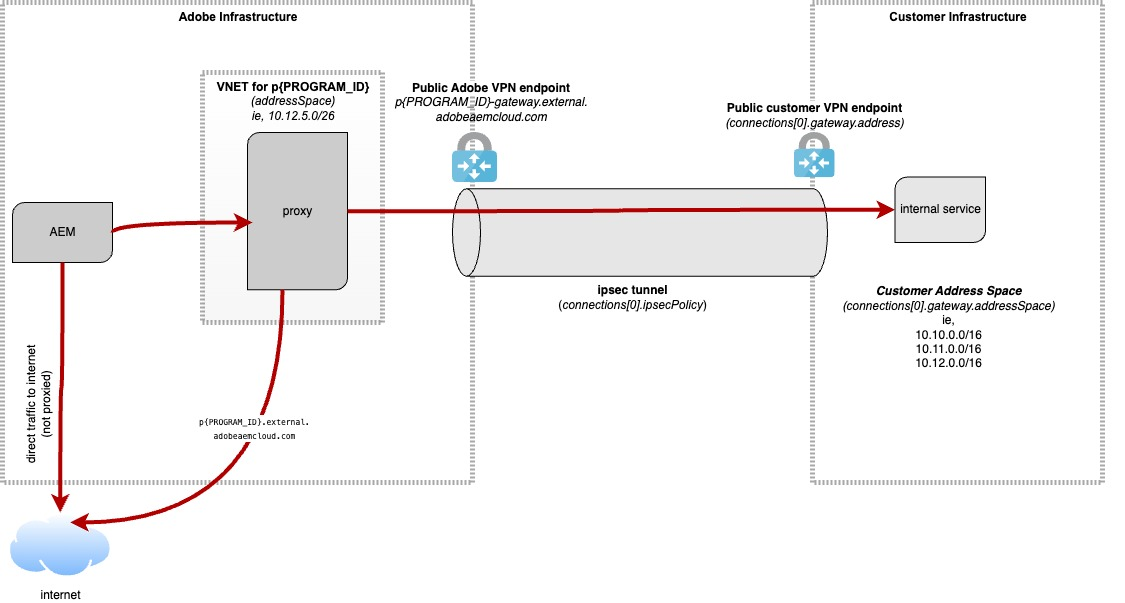
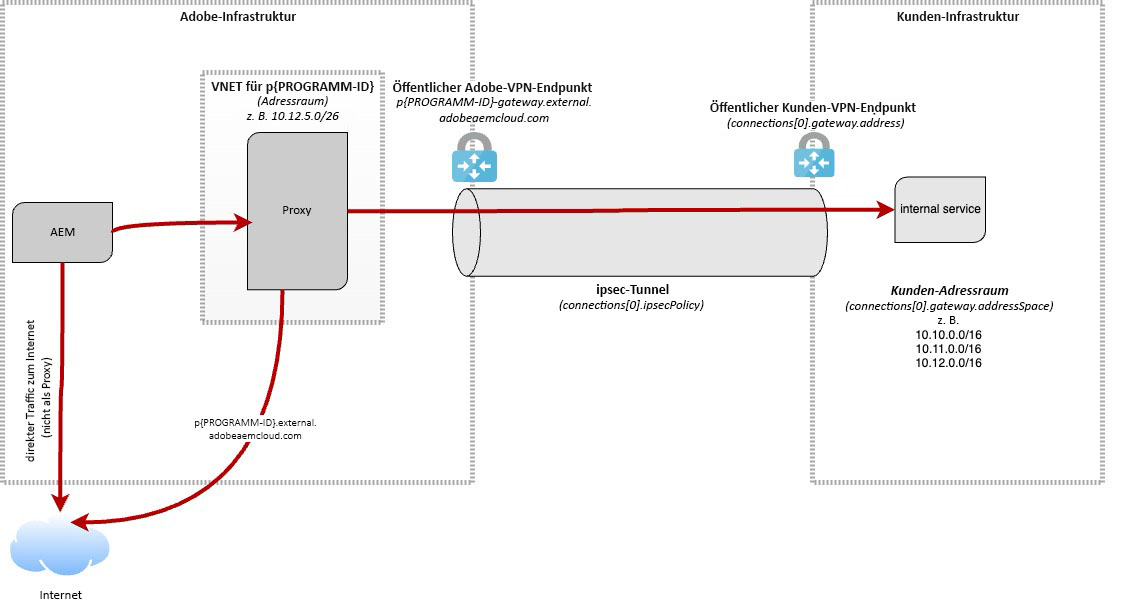
Updated by task 'AUTO_HANDOFF_PRIORITY_1731069569426'  Changes for core/source commit https://git.corp.adobe.com/AdobeDocs/experience-manager-cloud-service.en/commit/54368872e8e7d5f177ca75e6280786b33562cf8f

diff --git a/help/implementing/cloud-manager/release-notes/current.md b/help/implementing/cloud-manager/release-notes/current.md
@@ -1,19 +1,19 @@
 ---
 title: Versionshinweise für Cloud Manager 2024.11.0 in Adobe Experience Manager as a Cloud Service
-description: Erfahren Sie mehr über die Version von Cloud Manager 2024.11.0 in AEM as a Cloud Service.
+description: Erfahren Sie mehr über die Version Cloud Manager 2024.11.0 in AEM as a Cloud Service.
 feature: Release Information
 role: Admin
 exl-id: 24d9fc6f-462d-417b-a728-c18157b23bbe
 source-git-commit: 87293526ca9c10a142bc1d1d3a35562b171da385
-workflow-type: tm+mt
+workflow-type: ht
 source-wordcount: '784'
-ht-degree: 30%
+ht-degree: 100%
 
 ---
 
 # Versionshinweise für Cloud Manager 2024.11.0 in Adobe Experience Manager as a Cloud Service {#release-notes}
 
-Erfahren Sie mehr über die Version von Cloud Manager 2024.11.0 in AEM (Adobe Experience Manager) as a Cloud Service.
+Erfahren Sie mehr über die Version Cloud Manager 2024.11.0 in AEM (Adobe Experience Manager) as a Cloud Service.
 
 >[!NOTE]
 >
@@ -21,31 +21,31 @@ Erfahren Sie mehr über die Version von Cloud Manager 2024.11.0 in AEM (Adobe Ex
 
 ## Veröffentlichungsdaten {#release-date}
 
-Die Version 2024.11.0 von Cloud Manager in AEM as a Cloud Service wurde am 7. November 2024 veröffentlicht.
+Die Version 2024.11.0 von Cloud Manager in AEM as a Cloud Service wurde am 7. November 2024 veröffentlicht.
 
-Die nächste geplante Version ist der 5. Dezember 2024.
+Die Veröffentlichung der nächsten Version ist für den 5. Dezember 2024 geplant.
 
 ## Neue Funktionen {#what-is-new}
 
-* Erleben Sie die neueste Innovation in Edge Delivery Services mit AEM Cloud Service-now, die Sie in Ihrem Sandbox-Programm untersuchen können. [Mehr erfahren](/help/implementing/cloud-manager/getting-access-to-aem-in-cloud/introduction-sandbox-programs.md#auto-creation) <!-- (CMGR-62319) -->
-* Die Seite &quot;Domäneneinstellungen&quot;in AEM Cloud Manager enthält jetzt eine Suchfunktion, mit der Sie Domänen nach Namen schnell finden können. Sie können Suchbegriffe in das Suchfeld eingeben, um übereinstimmende Domänen zu filtern und anzuzeigen, wodurch die effiziente Verwaltung mehrerer Domänen erleichtert wird. Darüber hinaus bietet die Seite Statusfilter wie **Verified** und **Not Verified**, um die Suchergebnisse weiter einzugrenzen. <!-- (CMGR-62615) -->
+* Erleben Sie die neueste Innovation in Edge Delivery Services mit AEM Cloud Service, die Sie jetzt in Ihrem Sandbox-Programm erkunden können. [Weitere Informationen](/help/implementing/cloud-manager/getting-access-to-aem-in-cloud/introduction-sandbox-programs.md#auto-creation) <!-- (CMGR-62319) -->
+* Die Seite „Domain-Einstellungen“ in AEM Cloud Manager enthält jetzt eine Suchfunktion, mit der Sie Domains schnell nach Namen finden können. Sie können Suchbegriffe in das Suchfeld eingeben, um übereinstimmende Domains zu filtern und anzuzeigen, wodurch die effiziente Verwaltung mehrerer Domains erleichtert wird. Darüber hinaus bietet die Seite Statusfilter wie **Verifiziert** und **Nicht verifiziert**, um die Suchergebnisse weiter einzugrenzen. <!-- (CMGR-62615) -->
 
-![Suchfeld in den Domäneneinstellungen](/help/implementing/cloud-manager/assets/domain-settings-search.png)
+![Suchfeld in den Domain-Einstellungen](/help/implementing/cloud-manager/assets/domain-settings-search.png)
 
 ## Early-Adopter-Programm {#early-adoption}
 
 Nehmen Sie am Early-Adopter-Programm von Cloud Manager teil und nutzen Sie die Möglichkeit, zukünftige Funktionen zu testen.
 
-### AEM {#aem-home}
+### AEM Home {#aem-home}
 
-AEM Home bietet einen zentralen Ausgangspunkt für die Verwaltung von Inhalten, Assets und Sites in Adobe Experience Manager. AEM Home wurde für ein personalisiertes Erlebnis konzipiert und ermöglicht Ihnen die nahtlose Navigation im AEM Ökosystem entsprechend Ihren Rollen und Zielen. Als Leitfaden bietet er wichtige Einblicke und empfohlene Maßnahmen, mit denen Sie Ihre Ziele effizient erreichen können. Mit einem klaren, personalgesteuerten Layout gewährleistet AEM Home schnellen Zugriff auf wichtige Tools und ermöglicht so ein optimiertes und effektives Erlebnis für alle AEM Funktionen.
+AEM Home bietet einen zentralen Ausgangspunkt für das Verwalten von Inhalten, Assets und Sites in Adobe Experience Manager. AEM Home wurde für ein personalisiertes Erlebnis konzipiert und ermöglicht Ihnen die nahtlose Navigation im AEM-Ökosystem entsprechend Ihren Rollen und Zielen. Es dient als Leitfaden und bietet wichtige Einblicke und empfohlene Maßnahmen, mit denen Sie Ihre Ziele effizient erreichen können. Mit einem klaren, rollenbasierten Layout gewährleistet AEM Home schnellen Zugriff auf wichtige Tools und ermöglicht so ein optimiertes und effektives Erlebnis für alle AEM-Funktionen.
 
-AEM Home steht frühen Anwendern zur Verfügung und bietet ein optimiertes Erlebnis, das auf die Verbesserung von Workflows, die Priorisierung von Zielen und die Bereitstellung von Ergebnissen ausgerichtet ist. Durch die Anmeldung können Sie die Entwicklung AEM Home beeinflussen, indem Sie Feedback geben, das die Zukunft mitbestimmt und den Wert für die gesamte AEM Community erhöht.
+AEM Home steht Early-Adoptern zur Verfügung und bietet ein optimiertes Erlebnis, das auf die Verbesserung von Workflows, die Priorisierung von Zielen und die Bereitstellung von Ergebnissen ausgerichtet ist. Wenn Sie sich dafür entscheiden, können Sie die Entwicklung von AEM Home beeinflussen, indem Sie Feedback geben, um seine Zukunft mitzubestimmen und seinen Wert für die gesamte AEM-Community zu erhöhen.
 
-Wenn Sie diese neue Funktion testen und Ihr Feedback teilen möchten, senden Sie eine E-Mail von Ihrer mit Ihrer Adobe ID verknüpften E-Mail-Adresse an [Grp-AemHome@adobe.com](mailto:Grp-AemHome@adobe.com). Stellen Sie sicher, dass Sie die folgenden Informationen angeben:
+Wenn Sie diese neue Funktion testen und uns Ihr Feedback mitteilen möchten, senden Sie über die mit Ihrer Adobe ID verknüpfte E-Mail-Adresse eine E-Mail an [Grp-AemHome@adobe.com](mailto:Grp-AemHome@adobe.com). Stellen Sie sicher, dass Sie die folgenden Informationen angeben:
 
-* Die Rolle, die Ihrem Profil am besten entspricht: Inhaltsautor, Entwickler, Business Owner, Administrator oder Sonstige (geben Sie eine Beschreibung an).
-* Ihre primäre AEM für den Zugriff: AEM Sites, AEM Assets, AEM Forms, Cloud Manager oder Sonstige (Beschreibung angeben).
+* Die Rolle, die Ihrem Profil am besten entspricht: Inhaltsautor, Entwickler, Geschäftsinhaber, Admin oder Sonstige (geben Sie eine Beschreibung an).
+* Ihre primäre Oberfläche für den Zugriff auf AEM: AEM Sites, AEM Assets, AEM Forms, Cloud Manager oder Sonstige (Beschreibung angeben).
 
 ### Bringen Sie Ihren eigenen Git mit – jetzt mit Unterstützung für GitLab und Bitbucket {#gitlab-bitbucket}
 
@@ -61,16 +61,16 @@ Siehe [Hinzufügen von externen Repositorys in Cloud Manager](/help/implementing
 >
 >Derzeit sind vorkonfigurierte Code-Qualitätsprüfungen für Pull-Anfragen ausschließlich für von GitHub gehostete Repositorys verfügbar. Es ist jedoch ein Update in Arbeit, um diese Funktionen auf andere Git-Anbieter zu erweitern.
 
-Wenn Sie diese neue Funktion testen und uns Ihr Feedback mitteilen möchten, senden Sie über die mit Ihrer Adobe ID verknüpfte E-Mail-Adresse eine E-Mail an [Grp-CloudManager_BYOG@adobe.com](mailto:Grp-CloudManager_BYOG@adobe.com). Stellen Sie sicher, dass Sie angeben, welche Git-Plattform Sie verwenden möchten und ob Sie sich in einer privaten/öffentlichen oder Enterprise-Repository-Struktur befinden. —>
+Wenn Sie diese neue Funktion testen und uns Ihr Feedback mitteilen möchten, senden Sie über die mit Ihrer Adobe ID verknüpfte E-Mail-Adresse eine E-Mail an [Grp-CloudManager_BYOG@adobe.com](mailto:Grp-CloudManager_BYOG@adobe.com). Geben Sie unbedingt an, welche Git-Plattform Sie verwenden möchten und ob Sie sich in einer privaten/öffentlichen oder einer Unternehmens-Repository-Struktur befinden. -->
 
 
 ## Fehlerbehebungen
 
 * In einem kürzlich veröffentlichten Update wurde ein Problem in SonarQube behoben, bei dem hartcodierte Kennwörter in bestimmten Fällen nicht erkannt wurden. Die Fehlerbehebung enthält jetzt eine erweiterte Musterprüfung und passt sich an die standardmäßigen Erkennungsstandards in SonarQube an. <!-- CMGR-62682 -->
 * Wenn Sie versuchen, ein SSL-Zertifikat in Cloud Manager zu aktualisieren, wird nach dem Klicken auf **[!UICONTROL Aktualisieren]** im Dialogfeld **[!UICONTROL Anzeigen und Aktualisieren des SSL-Zertifikats]** ein unbekannter Fehler angezeigt. <!-- CMGR-62848 -->
-* In Cloud Manager schlug die Aktualisierung des SSL-Zertifikats mit dem Fehler &quot;Das neue Zertifikat stimmt nicht mit den vorhandenen Domänen überein&quot;fehl, selbst wenn die Domänen identisch waren, aber Unterschiede in der Schreibweise aufwiesen (Groß- oder Kleinschreibung). In der Aktualisierung wird bei Domänen nun nicht mehr zwischen Groß- und Kleinschreibung unterschieden, was an RFC-Standards ausgerichtet ist. <!-- CMGR-62844 -->
-* In Cloud Manager blieben IP-Zulassungslisten-Bindungen in einem laufenden Zustand, da Fremdschlüssellinks zu Domänenkonfigurationen fehlten. Durch die Korrektur wird nun sichergestellt, dass IP-Zulassungslisten-Bindungen korrekt mit den zugehörigen Domänenkonfigurationen verknüpft werden. <!-- CMGR-62838 -->
-* Cloud Manager validiert den OCSP-Status (Online Certificate Status Protocol) eines SSL-Zertifikats. Adobe empfiehlt, die Integrität Ihres Zertifikats auch lokal mithilfe eines Tools wie `openssl verify -untrusted intermediate.pem certificate.pem` zu überprüfen, bevor Sie es über Cloud Manager installieren. Weitere Informationen finden Sie in der Dokumentation zu den [SSL-Zertifikatanforderungen](https://experienceleague.adobe.com/en/docs/experience-manager-cloud-service/content/implementing/using-cloud-manager/manage-ssl-certificates/introduction-to-ssl-certificates#requirements). <!-- CMGR-62341  -->
+* In Cloud Manager schlug die Aktualisierung des SSL-Zertifikats fehl mit dem Fehler „Das neue Zertifikat stimmt nicht mit den vorhandenen Domänen überein“, selbst wenn die Domains identisch waren, aber Unterschiede bezüglich Groß- oder Kleinschreibung aufwiesen. Mit der Aktualisierung wird bei Domains nun entsprechend den RFC-Standards nicht mehr zwischen Groß- und Kleinschreibung unterschieden. <!-- CMGR-62844 -->
+* In Cloud Manager blieben Bindungen von IP-Zulassungslisten in einem laufenden Zustand, da wichtige fremde Links zu Domain-Konfigurationen fehlten. Durch die Korrektur wird nun sichergestellt, dass IP-Zulassungslisten-Bindungen korrekt mit den zugehörigen Domain-Konfigurationen verknüpft sind. <!-- CMGR-62838 -->
+* Cloud Manager validiert den OCSP-Status (Online Certificate Status Protocol) eines SSL-Zertifikats. Adobe empfiehlt, die Integrität Ihres Zertifikats außerdem lokal mit einem Tool wie `openssl verify -untrusted intermediate.pem certificate.pem` zu überprüfen, bevor Sie versuchen, es mit Cloud Manager zu installieren. Weitere Informationen finden Sie in der [Dokumentation zu SSL-Zertifikat-Anforderungen](https://experienceleague.adobe.com/de/docs/experience-manager-cloud-service/content/implementing/using-cloud-manager/manage-ssl-certificates/introduction-to-ssl-certificates#requirements). <!-- CMGR-62341  -->
 
 
 

diff --git a/help/security/configuring-advanced-networking.md b/help/security/configuring-advanced-networking.md
@@ -5,9 +5,9 @@ exl-id: 968cb7be-4ed5-47e5-8586-440710e4aaa9
 feature: Security
 role: Admin
 source-git-commit: 2a7d46e91bbd6ca96bd8b7fd5d4d84cf69bdee36
-workflow-type: tm+mt
+workflow-type: ht
 source-wordcount: '5524'
-ht-degree: 99%
+ht-degree: 100%
 
 ---
 
@@ -398,7 +398,7 @@ Um zu überprüfen, ob der Traffic tatsächlich über die erwartete dedizierte I
 
 ## Virtuelles privates Netzwerk (VPN) {#vpn}
 
-Ein VPN ermöglicht die Verbindung zu einer On-Premise-Infrastruktur oder einem Rechenzentrum von der Autoren-, Veröffentlichungs- oder Vorschauinstanz aus. Dies kann beispielsweise nützlich sein, um den Zugriff auf eine Datenbank zu sichern. Es ermöglicht auch die Verbindung zu SaaS-Anbietern, z. B. einem CRM-Anbieter, der VPN unterstützt.
+Ein VPN ermöglicht die Verbindung zu einer On-Premise-Infrastruktur oder einem Rechenzentrum von der Autoren-, Veröffentlichungs- oder Vorschauinstanz aus. Dies kann beispielsweise nützlich sein, um den Zugriff auf eine Datenbank zu sichern. Es ermöglicht auch die Verbindung zu SaaS-Anbietern, z. B. einem CRM-Anbieter, der VPN unterstützt.
 
 Die meisten VPN-Geräte mit IPSec-Technologie werden unterstützt. Lesen Sie die Informationen in der Spalte **RouteBased-Konfigurationsanweisungen** in [dieser Geräteliste.](https://learn.microsoft.com/de-de/azure/vpn-gateway/vpn-gateway-about-vpn-devices#devicetable) Konfigurieren Sie das Gerät wie in der Tabelle beschrieben.
 
